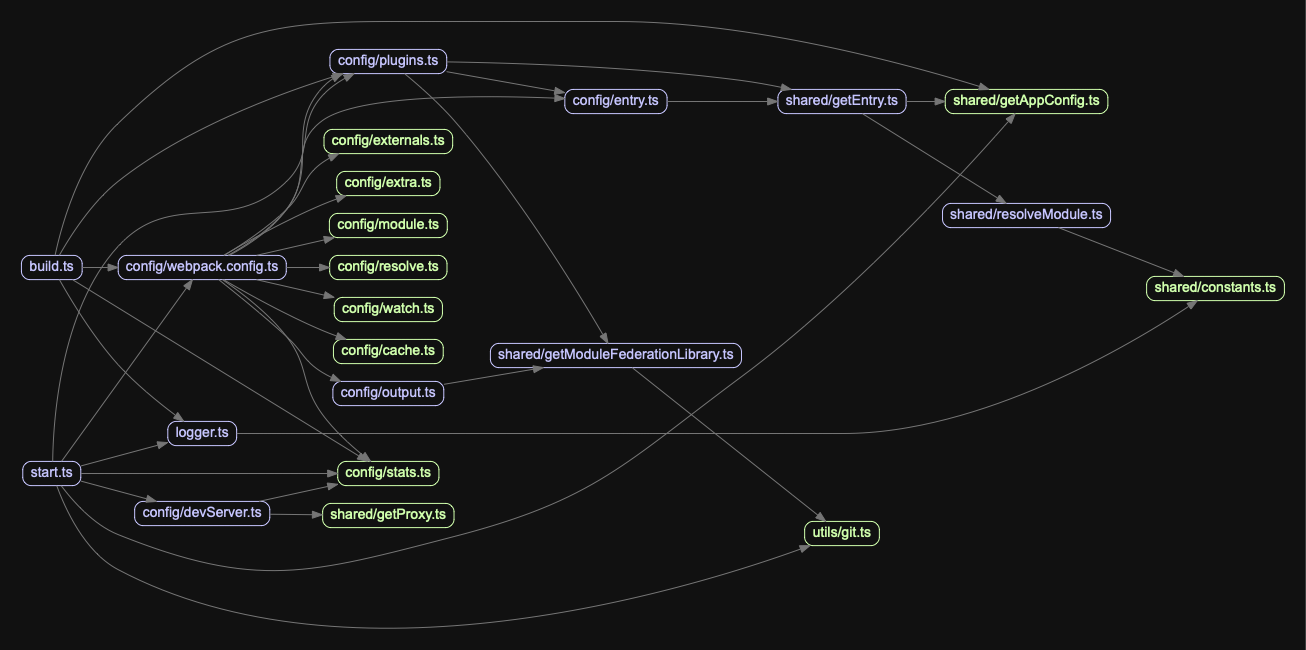
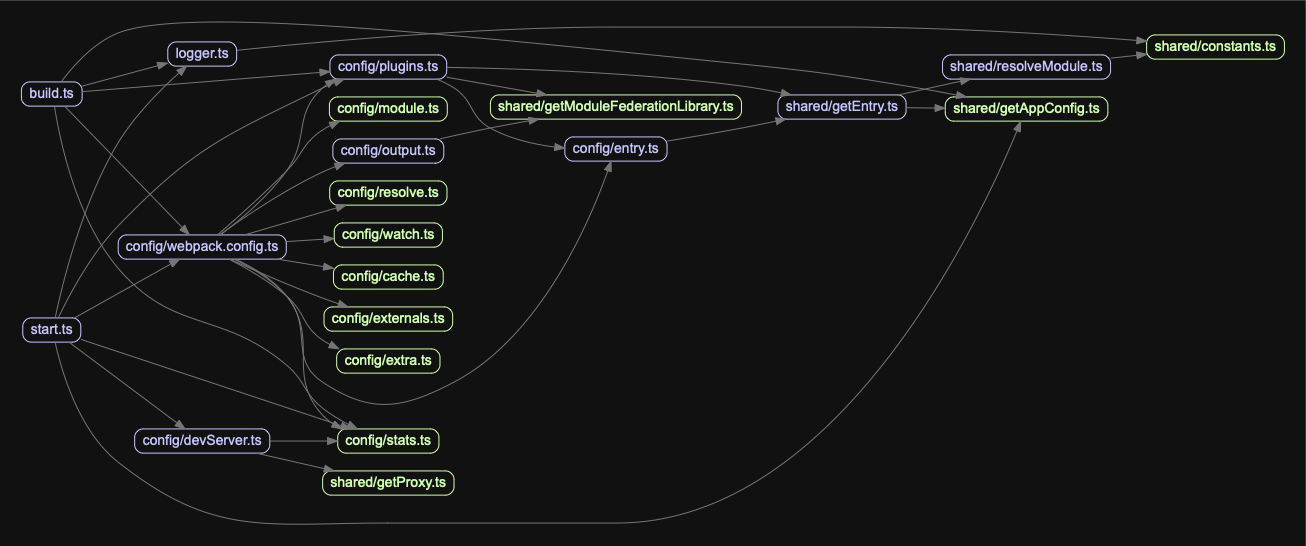
chore: refactor imports & exports

diff --git a/src/start.ts b/src/start.ts
@@ -11,8 +11,7 @@ import { factory as pluginsFactory } from './config/plugins'
 import statsConfig from './config/stats'
 import { Configuration, Compiler } from 'webpack/types'
 
-import { getAppPath, getAppPkg, getAppRC, onetab } from './utils'
-import { getGitBranchVersion } from './utils/git'
+import { getAppPath, getAppPkg, getAppRC, onetab, getGitBranchVersion } from './utils'
 
 process.env.BABEL_ENV = 'development'
 process.env.NODE_ENV = 'development'

diff --git a/src/shared/getModuleFederationLibrary.ts b/src/shared/getModuleFederationLibrary.ts
@@ -1,5 +1,4 @@
-import { getAppPath, getAppPkg } from '../utils'
-import { getGitBranchVersion } from '../utils/git'
+import { getAppPath, getAppPkg, getGitBranchVersion } from '../utils'
 
 const formatModuleFederationName = (str: string) => str.replace(/[^a-zA-Z\d]/g, '_').replace(/^(\d)/, '_$1')
 

diff --git a/src/utils/index.ts b/src/utils/index.ts
@@ -3,3 +3,4 @@ export { getAppPath, getAppPkg, getAppRC } from './app'
 export { onetab } from './net'
 export { fixLength, prefixLength } from './printf'
 export { getLogger } from './logger'
+export { hasGit, getGitBranch, getGitBranchVersion } from './git'

diff --git a/src/utils/git.ts b/src/utils/git.ts
@@ -1,6 +1,6 @@
 import { existsSync, readFileSync } from 'fs'
 import { join } from 'path'
-import { getAppPath } from '.'
+import { getAppPath } from './app'
 
 /** 是否已初始化 git */
 export function hasGit (appPath = __dirname) {
